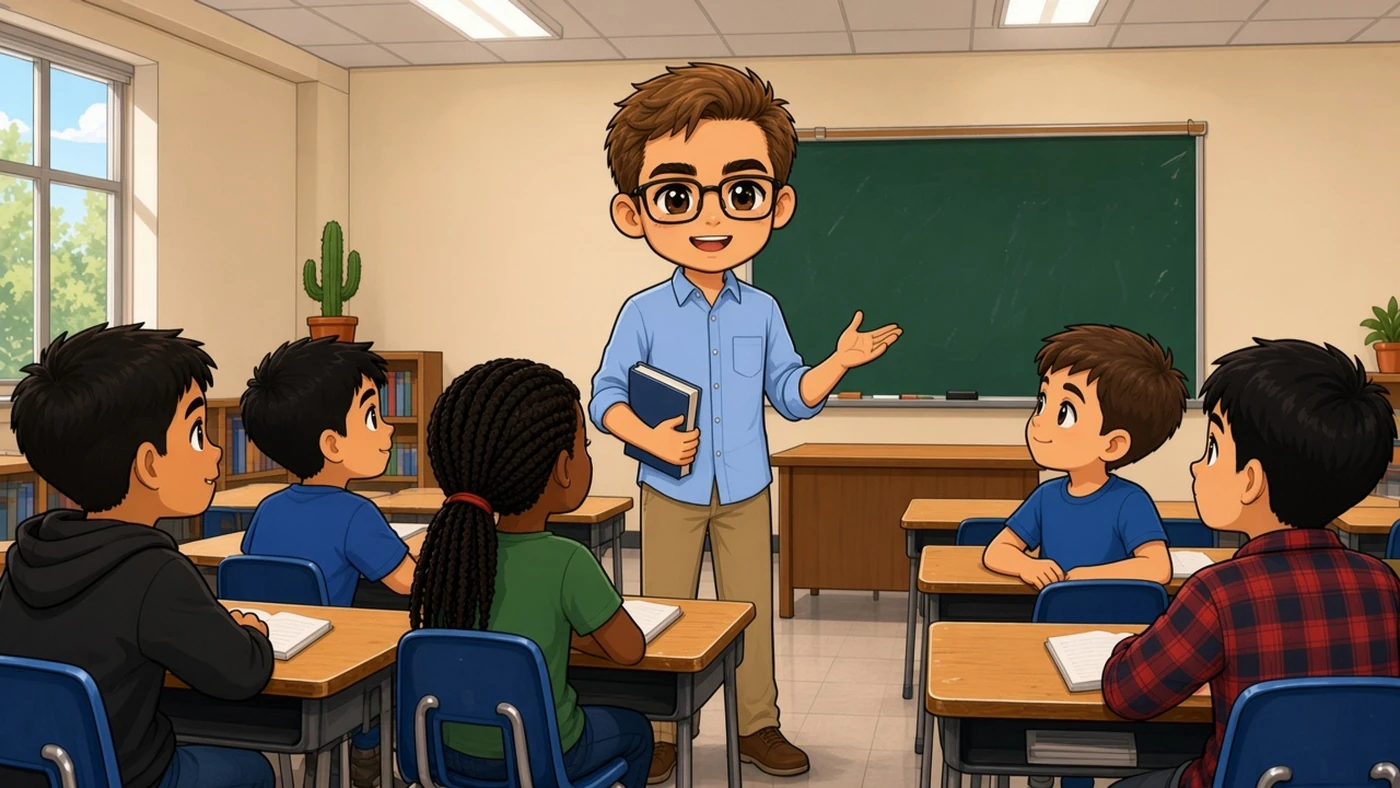
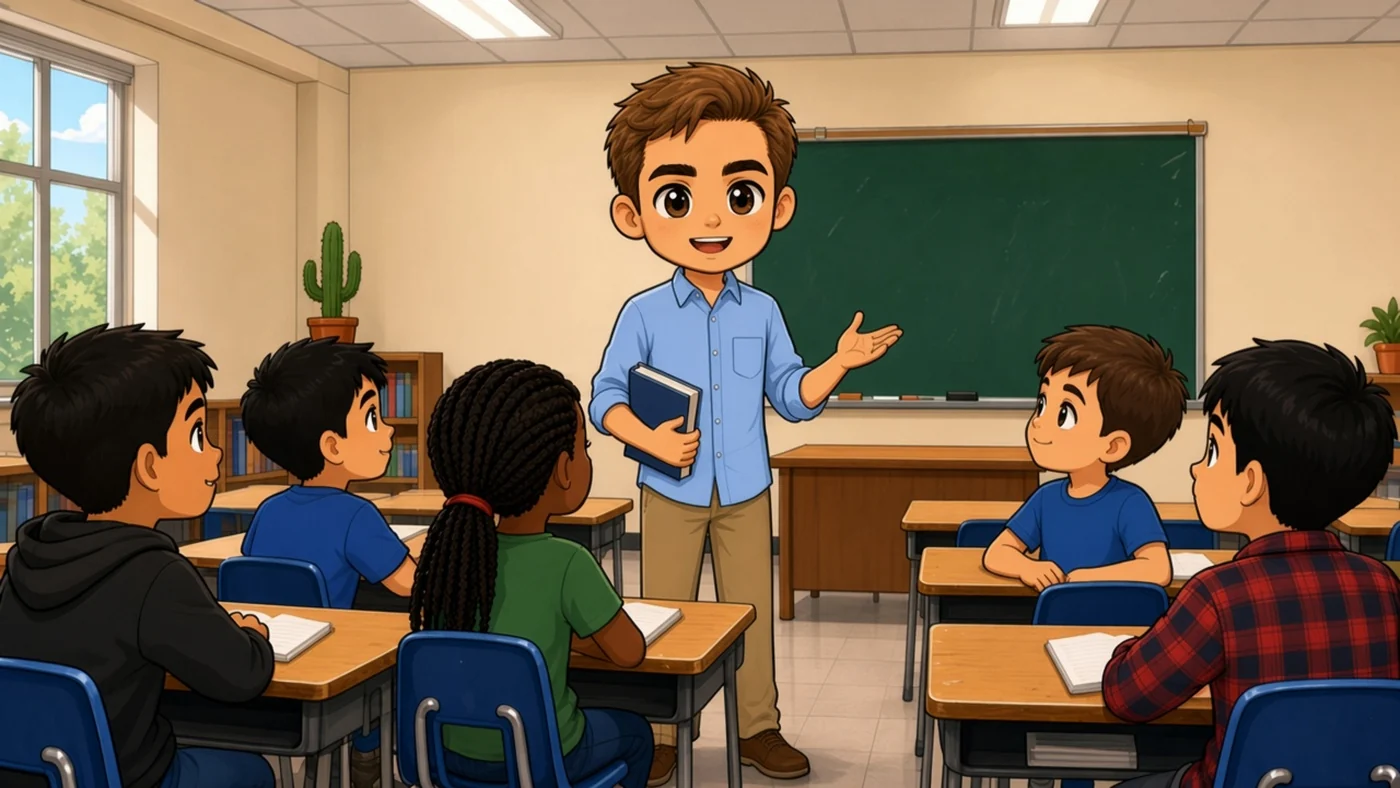
Remove invented glasses from adult Talarico likeness.
He does not wear them in photographs; the frames were a comic shortcut so he would not blend into the other two.

diff --git a/story/panels.js b/story/panels.js
@@ -949,7 +949,7 @@ export const PAGES = [
           39,
           66
         ],
-        "prompt": "Wide 16:9 splash, matching the fighter-select screen: a rain-slick avenue at night leading to the lit U.S. Capitol dome. Seen from behind, three chibi men walk toward the Capitol: Zohran Mamdani in a dark suit and polka-dot tie, James Talarico in a navy suit with glasses and light brown hair, Abdul El-Sayed in a black henley. Puddles reflecting neon magenta, cyan and gold. Epic, hopeful, cinematic. No lettering."
+        "prompt": "Wide 16:9 splash, matching the fighter-select screen: a rain-slick avenue at night leading to the lit U.S. Capitol dome. Seen from behind, three chibi men walk toward the Capitol: Zohran Mamdani in a dark suit and polka-dot tie, James Talarico in a navy suit with light brown hair, Abdul El-Sayed in a black henley. Puddles reflecting neon magenta, cyan and gold. Epic, hopeful, cinematic. No lettering."
       }
     ]
   },

diff --git a/story/index.html b/story/index.html
@@ -35,7 +35,7 @@
   </header>
 
   <header class="cover">
-    <img src="../art/chibi/hero.webp?v=three1" width="960" height="540" alt="Zohran Mamdani, James Talarico, and Abdul El-Sayed square up on a rainy street in front of the Capitol." />
+    <img src="../art/chibi/hero.webp?v=noglasses1" width="960" height="540" alt="Zohran Mamdani, James Talarico, and Abdul El-Sayed square up on a rainy street in front of the Capitol." />
     <div class="masthead">
       <p class="issue">Capitol Crashers · Issues #1–2</p>
       <h1>Three Roads<br />to the Capitol</h1>
@@ -63,7 +63,7 @@
     <p class="fine"><a href="../privacy.html">Privacy</a></p>
   </footer>
 
-  <script type="module" src="story.js?v=readable1"></script>
+  <script type="module" src="story.js?v=noglasses1"></script>
   <script src="../soundtrack.js?v=nobombs1" data-controls></script>
 </body>
 </html>

diff --git a/story/story.js b/story/story.js
@@ -1,7 +1,7 @@
 import { PAGES, SOURCES } from "./panels.js?v=readable1";
 
 const ART_DIR = "../art/story/chibi/";
-const ART_VER = "three2";
+const ART_VER = "noglasses1";
 const book = document.getElementById("book");
 const sourcesHost = document.getElementById("sources");
 
